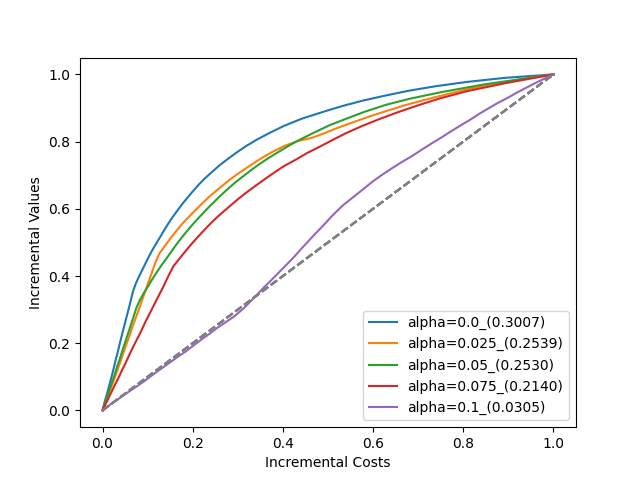
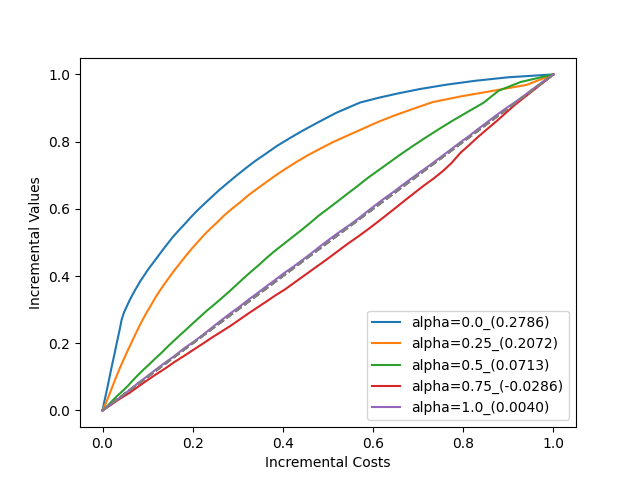
fix

diff --git a/main.py b/main.py
@@ -16,9 +16,9 @@ def main(predict_ps: bool, validate: bool) -> None:
     test_samples = 100_000
     n_features = 4
     delta = 0.0
-    ps_delta = 0.0  # 4パターン
+    ps_delta = 0.0
     alpha_list = []
-    _alpha_list = [0.0, 0.025, 0.05, 0.075, 0.10]
+    _alpha_list = [0.0, 0.25, 0.5, 0.75, 1.0]
     model_name = "Direct"
     model_params = (
         {"input_dim": n_features}
@@ -27,10 +27,10 @@ def main(predict_ps: bool, validate: bool) -> None:
     )
     method = "DR"
     only_rct = True if method == "Direct_only_RCT" else False
-    num_epochs_list = [2000, 50]
+    num_epochs_list = [100, 50]
     weight_decay_list = [1e-3]
     lr_list = [1e-3, 5e-3, 1e-2]
-    batch_size_list = [2048]
+    batch_size_list = [1024]
     for rct_ratio in _alpha_list:
         alpha_list.append(rct_ratio)
         dataset = DatasetGenerator(

diff --git a/inference.py b/inference.py
@@ -115,13 +115,13 @@ def compare_alpha(
     plt.clf()
     for alpha in roi_dic_alpha:
         incremental_costs_alpha, incremental_values_alpha = optimize_alpha(
-            rct_ratio,
+            alpha,
             roi_dic_alpha[alpha],
             test_dataset["true_tau_r"],
             test_dataset["true_tau_c"],
         )
         cost_curve_alpha(
-            rct_ratio,
+            alpha,
             incremental_costs_alpha,
             incremental_values_alpha,
             label=alpha,

diff --git a/src/model/direct.py b/src/model/direct.py
@@ -167,7 +167,7 @@ class DirectNonLinear(nn.Module):
 
 # 損失関数の定義
 def custom_loss(y_r: torch.Tensor, y_c: torch.Tensor, q: torch.Tensor) -> torch.Tensor:
-    q = torch.clamp(q, 1e-6, 1 - 1e-6)
+    q = torch.clamp(q, 1e-4, 1 - 1e-4)
     logit_q = torch.log(q / (1 - q))
 
     loss = -torch.mean(y_r * logit_q + y_c * torch.log(1 - q))

diff --git a/src/evaluate/evaluate.py b/src/evaluate/evaluate.py
@@ -143,9 +143,3 @@ def optimize_alpha(
     incremental_values[0] = 0
 
     return incremental_costs, incremental_values
-
-
-# # 例として適用するデータ
-# incremental_costs = np.array([0, 0.25, 0.5, 0.75, 1])
-# incremental_values = np.array([0, 0.3, 0.6, 0.8, 1])
-# cost_curve(incremental_costs, incremental_values, "Example Curve")

diff --git a/src/make_data.py b/src/make_data.py
@@ -370,7 +370,7 @@ def split_dataset(
     dataset["strata"] = dataset["T"] * 1.1 + dataset["RCT_flag"]
     train_idx, val_idx = train_test_split(
         np.arange(len(dataset["features"])),
-        train_size=0.5,
+        train_size=0.7,
         random_state=0,
         stratify=dataset["strata"],
     )
